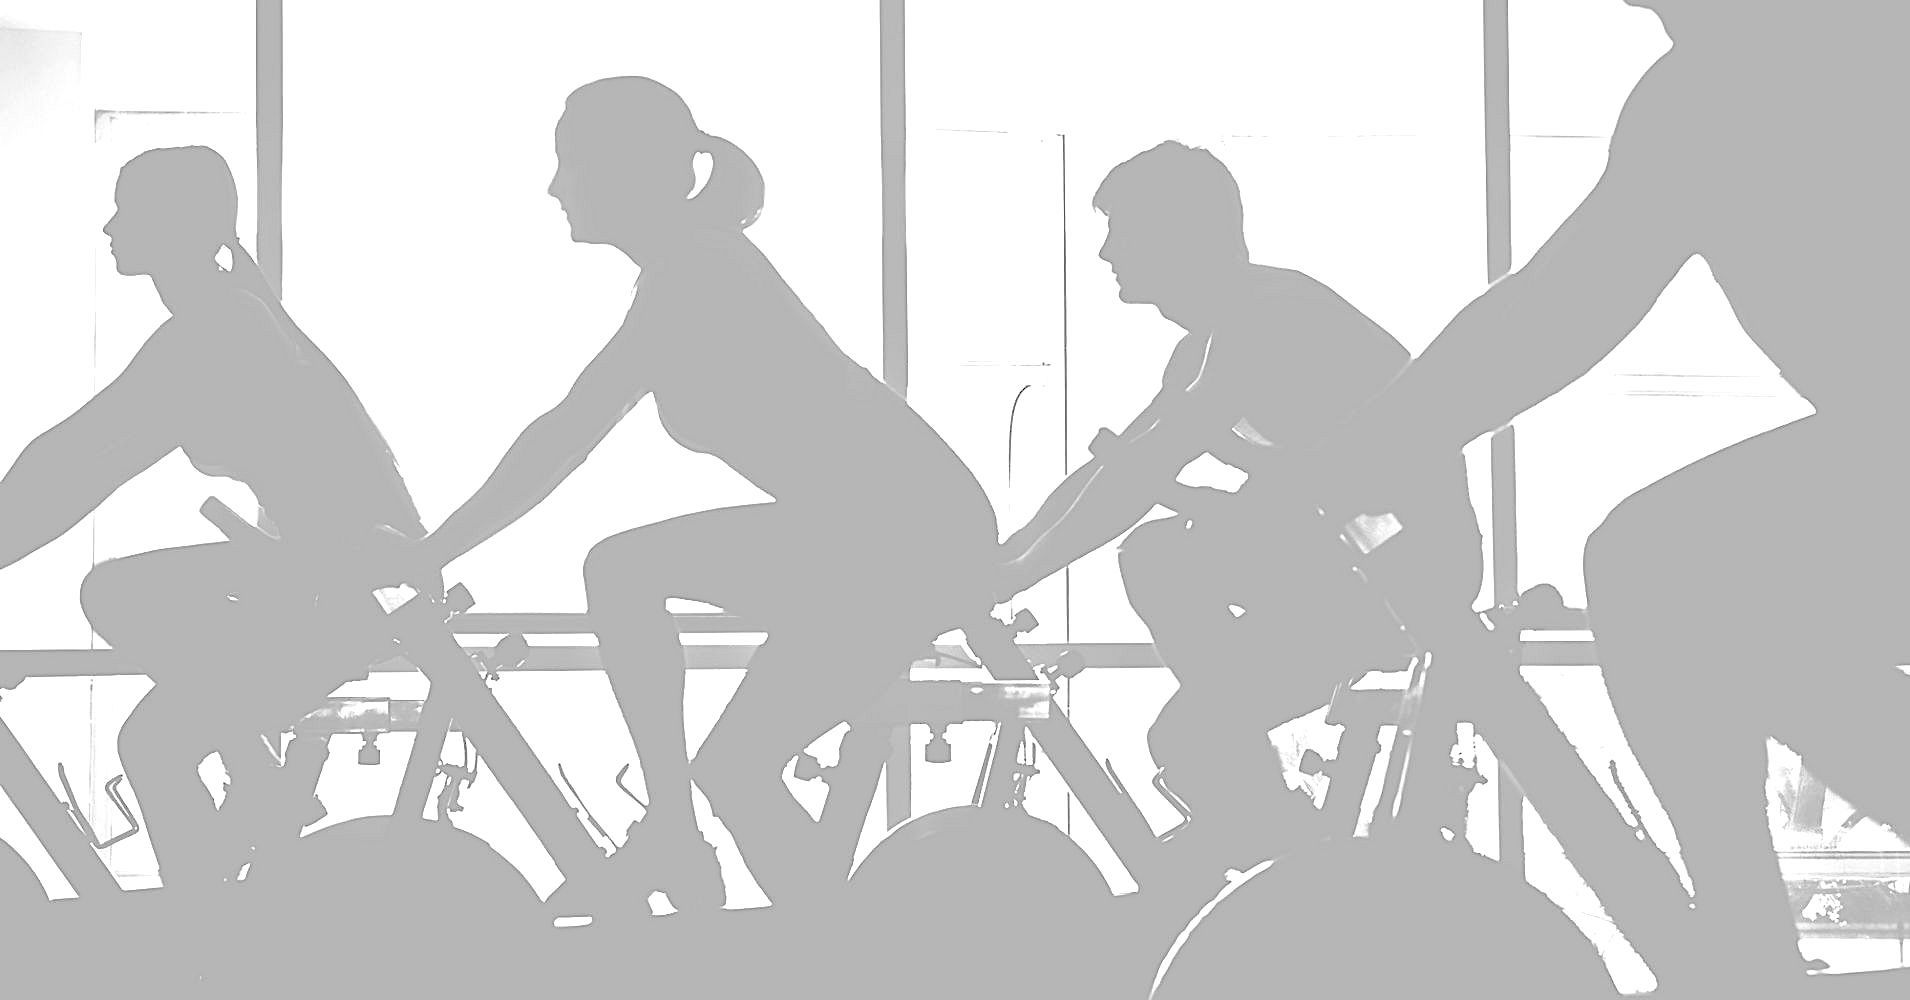
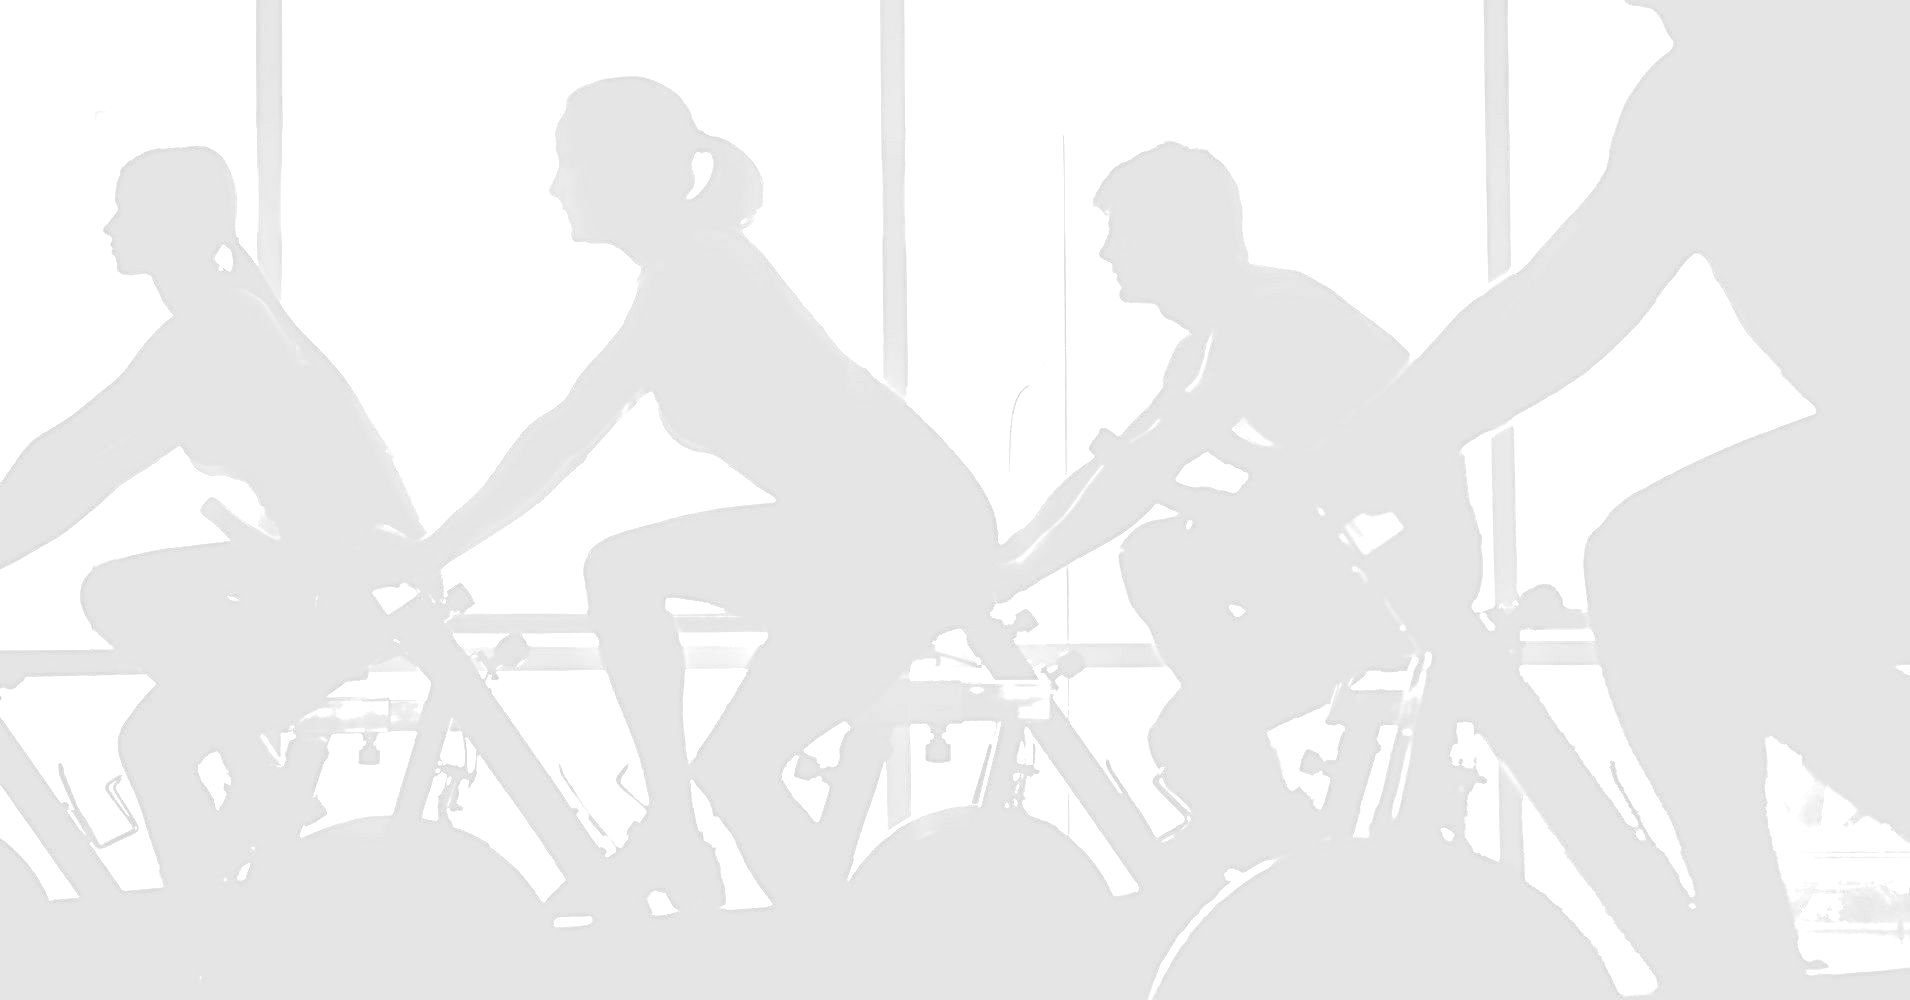
Lighten background image further

diff --git a/client/src/components/Workout.js b/client/src/components/Workout.js
@@ -14,3 +14,9 @@ const Workout = props => {
 }
 
 export default Workout;
+
+
+
+{/* <Col m={3}>
+  <Card title={props.name}>{props.content}</Card>
+</Col> */}
